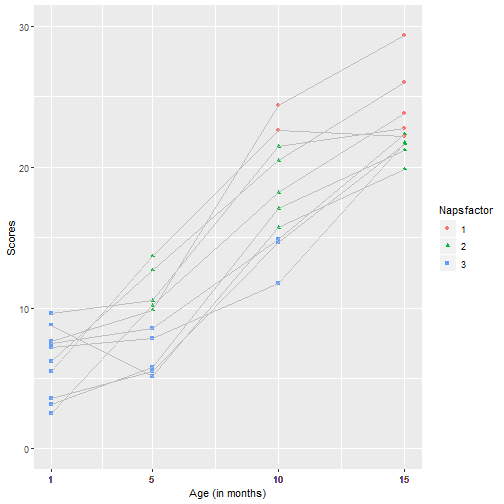
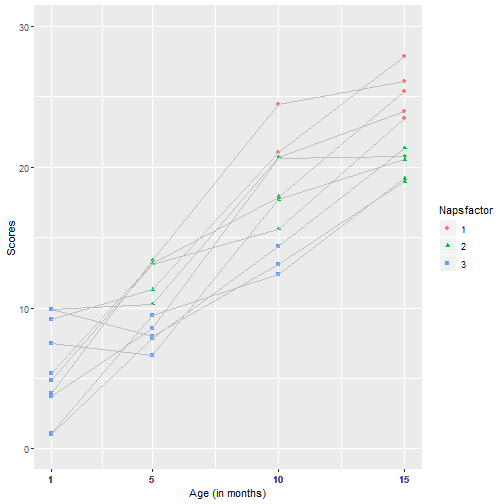
efdfr

diff --git a/docs/Final_project_presentation.html b/docs/Final_project_presentation.html
@@ -187,46 +187,46 @@ print(seconddataset)
 
 ```
 ##    Subs Month Naps secondscores Napsfactor
-## 1     1     1    3     7.170586          3
-## 2     2     1    3     3.583052          3
-## 3     3     1    3     7.465170          3
-## 4     4     1    3     3.127882          3
-## 5     5     1    3     8.791892          3
-## 6     6     1    3     9.634068          3
-## 7     7     1    3     6.218591          3
-## 8     8     1    3     2.528422          3
-## 9     9     1    3     5.472659          3
-## 10   10     1    3     7.614653          3
-## 11    1     5    3     7.820417          3
-## 12    2     5    3     5.475113          3
-## 13    3     5    3     8.525551          3
-## 14    4     5    3     5.773981          3
-## 15    5     5    3     5.111542          3
-## 16    6     5    2    10.533653          2
-## 17    7     5    2    12.691162          2
-## 18    8     5    2    10.145693          2
-## 19    9     5    2    13.683709          2
-## 20   10     5    2     9.849143          2
-## 21    1    10    3    11.767944          3
-## 22    2    10    3    14.643520          3
-## 23    3    10    3    14.857483          3
-## 24    4    10    2    17.073752          2
-## 25    5    10    2    15.713771          2
-## 26    6    10    2    21.444597          2
-## 27    7    10    2    20.472899          2
-## 28    8    10    2    18.189461          2
-## 29    9    10    1    22.650703          1
-## 30   10    10    1    24.388868          1
-## 31    1    15    2    21.725434          2
-## 32    2    15    2    21.640731          2
-## 33    3    15    2    22.338675          2
-## 34    4    15    2    21.218527          2
-## 35    5    15    2    19.875106          2
-## 36    6    15    1    22.783912          1
-## 37    7    15    1    26.045694          1
-## 38    8    15    1    23.795259          1
-## 39    9    15    1    22.187484          1
-## 40   10    15    1    29.353559          1
+## 1     1     1    3     9.913731          3
+## 2     2     1    3     1.051189          3
+## 3     3     1    3     1.038931          3
+## 4     4     1    3     7.446681          3
+## 5     5     1    3     3.696344          3
+## 6     6     1    3     5.336146          3
+## 7     7     1    3     4.844127          3
+## 8     8     1    3     9.901967          3
+## 9     9     1    3     3.942978          3
+## 10   10     1    3     9.202027          3
+## 11    1     5    3     7.946098          3
+## 12    2     5    3     9.448767          3
+## 13    3     5    3     7.838637          3
+## 14    4     5    3     6.640790          3
+## 15    5     5    3     8.555451          3
+## 16    6     5    2    13.161357          2
+## 17    7     5    2    13.123421          2
+## 18    8     5    2    10.276827          2
+## 19    9     5    2    13.385329          2
+## 20   10     5    2    11.306547          2
+## 21    1    10    3    13.102082          3
+## 22    2    10    3    12.400250          3
+## 23    3    10    3    14.353965          3
+## 24    4    10    2    17.681171          2
+## 25    5    10    2    20.645904          2
+## 26    6    10    2    17.889407          2
+## 27    7    10    2    15.611078          2
+## 28    8    10    2    20.703849          2
+## 29    9    10    1    24.473427          1
+## 30   10    10    1    21.081684          1
+## 31    1    15    2    18.966597          2
+## 32    2    15    2    19.171625          2
+## 33    3    15    2    21.357072          2
+## 34    4    15    2    20.539068          2
+## 35    5    15    2    20.785813          2
+## 36    6    15    1    25.407160          1
+## 37    7    15    1    23.438432          1
+## 38    8    15    1    23.965562          1
+## 39    9    15    1    26.073871          1
+## 40   10    15    1    27.894102          1
 ```
 
 ```r
@@ -255,14 +255,14 @@ print(seconddemos)
 ## # Groups:   Month [4]
 ##   Month  Naps mean_secondscore
 ##   &lt;dbl&gt; &lt;dbl&gt;            &lt;dbl&gt;
-## 1     1     3             6.16
-## 2     5     2            11.4 
-## 3     5     3             6.54
-## 4    10     1            23.5 
-## 5    10     2            18.6 
-## 6    10     3            13.8 
-## 7    15     1            24.8 
-## 8    15     2            21.4
+## 1     1     3             5.64
+## 2     5     2            12.3 
+## 3     5     3             8.09
+## 4    10     1            22.8 
+## 5    10     2            18.5 
+## 6    10     3            13.3 
+## 7    15     1            25.4 
+## 8    15     2            20.2
 ```
 
 
@@ -308,11 +308,11 @@ print(secondtabl)
 ```
 
 ```
-##                    Value Std.Error DF     t-value      p-value
-## (Intercept) 17.237304865 4.2471269 27  4.05858018 0.0003789696
-## Month        0.846997543 0.3330320 27  2.54329150 0.0170215990
-## Naps        -4.241979753 1.4967791 27 -2.83407193 0.0085941323
-## Month:Naps  -0.004503319 0.1288402 27 -0.03495274 0.9723745537
+##                   Value Std.Error DF    t-value      p-value
+## (Intercept) 19.16253395 3.9594882 27  4.8396492 4.686523e-05
+## Month        0.72098923 0.3104773 27  2.3221964 2.800592e-02
+## Naps        -4.83146460 1.3954091 27 -3.4624001 1.799051e-03
+## Month:Naps   0.02246563 0.1201144 27  0.1870352 8.530314e-01
 ```
 
 
